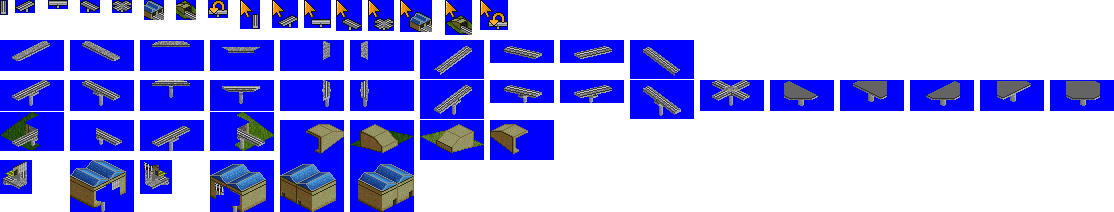
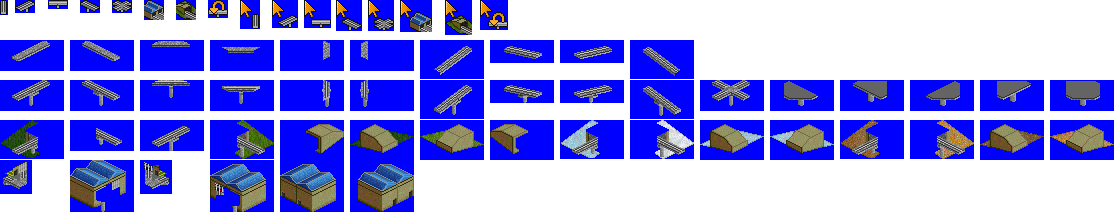
Fix: Support Snow/Desert tunnel graphics, closes #66

Changed region(s): [[0.4883, 0.566, 1.0, 0.7642], [0.0, 0.5094, 0.061, 0.7642], [0.1831, 0.5094, 0.2442, 0.7642]]

diff --git a/docs/changelog.md b/docs/changelog.md
@@ -6,6 +6,7 @@
    * 추가: 협궤 동차 [#205]
    * 추가: 협궤 유개화차 [#215]
    * 추가: 협궤 무개화차 [#217]
+ * 추가: 아한대·아열대 지형의 경전철/협궤 선로의 터널 그래픽 [#66]
  * 변경: 발전차의 길이를 6/8 또는 7/8 수준으로 축소 [#117]
  * 변경: 새마을호 디젤 유압 동차(DHC, PP동차) 그래픽 개선 [#187]
  * 변경: 마터 2형 무게 [#208]
